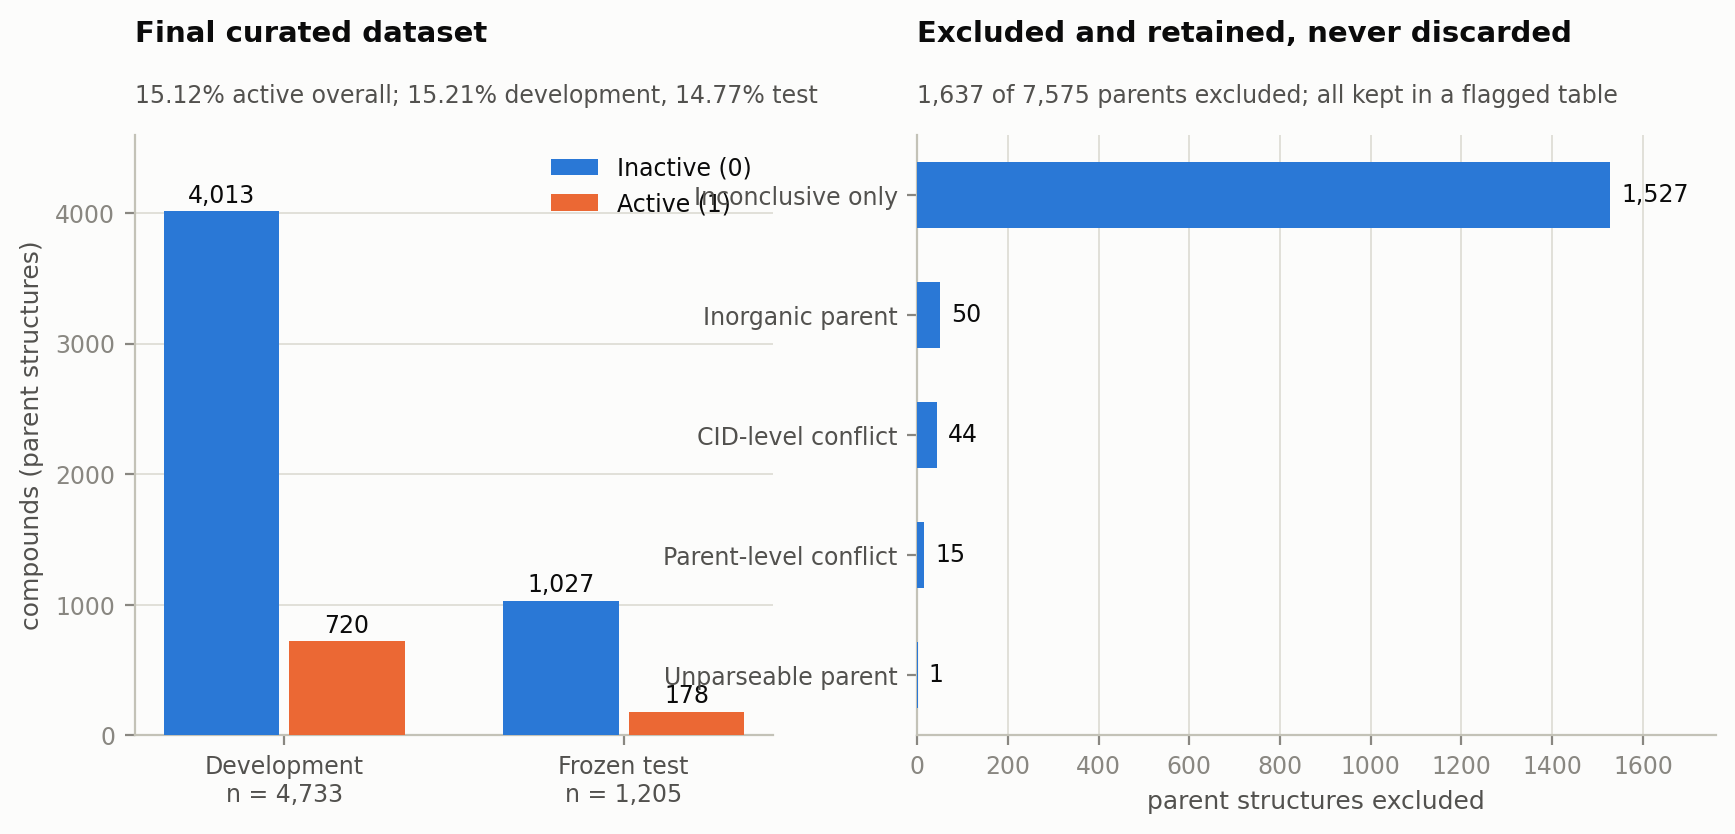
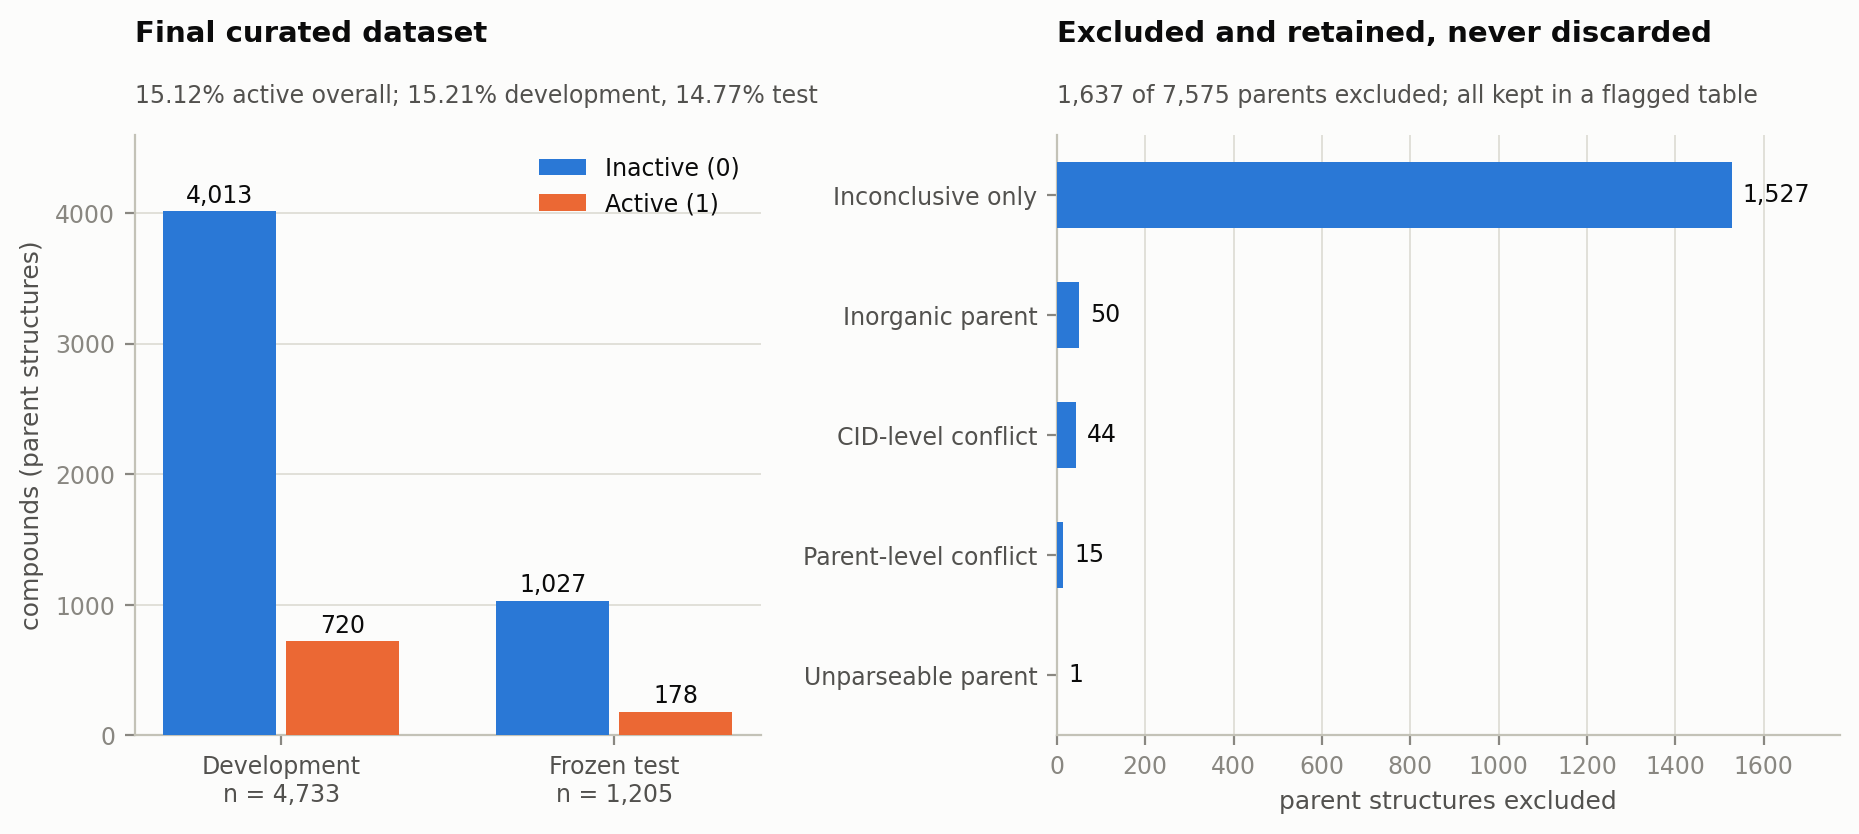
Lead with a figure, describe every figure, and stop hard-coding figure data
PLACEMENT. The first image did not appear until line 134, so anyone opening
the repository on GitHub read about 130 lines before seeing a result. The ROC
and precision-recall figure now sits directly under the headline metrics
table, where it does the job the table cannot: showing that the development
and frozen-test curves lie almost on top of each other. It is no longer
repeated in the Results section, which keeps the confusion matrices.

ALT TEXT. Every figure had a two- or three-word alt attribute naming it. Each
now describes what the figure shows, with its numbers, so the document still
reads on a screen reader, in a plain-text diff, and if an image fails to load.

Two of those descriptions were wrong when first written, which is the reason
for looking at all eight rather than trusting the filenames:

  * dataset_composition.png does not show the funnel from 10,486 records to
    5,938 compounds. It shows the final dataset by subset and label, beside
    the five exclusion categories.
  * alert_enrichment.png plots 12 alerts, not 13. ortho-quinone matches no
    development compound, so it has no odds ratio and is dropped.

HARD-CODED DATA IN A FIGURE. The five exclusion counts in
dataset_composition.png were literals in make_figures.py, as were the three
prevalence figures in its subtitle and the baseline prevalence in
model_comparison.png. They happened to be correct, but a figure that states
numbers it did not read cannot stay correct through a rebuild, and this
[…]

diff --git a/scripts/make_figures.py b/scripts/make_figures.py
@@ -81,8 +81,9 @@ alerts = pd.read_csv(f"{T}/structural_alert_enrichment_dev.csv")
 oof = np.load(f"{P}/oof_predictions_dev.npz", allow_pickle=True)
 
 # ============================================== 1. dataset composition
-fig, (a1, a2) = plt.subplots(1, 2, figsize=(10.2, 3.9),
-                             gridspec_kw={"width_ratios": [1, 1.25]})
+fig, (a1, a2) = plt.subplots(1, 2, figsize=(11.0, 3.9),
+                             gridspec_kw={"width_ratios": [1, 1.25],
+                                          "wspace": 0.42})
 sub = splits.groupby(["subset", "label"]).size().unstack(fill_value=0)
 sub = sub.loc[["development", "test"]]
 xs = np.arange(2)
@@ -100,12 +101,26 @@ a1.set_ylabel("compounds (parent structures)")
 a1.set_ylim(0, 4600)
 a1.legend(loc="upper right")
 tidy(a1)
+_pa = sub[1].sum() / sub.values.sum()
+_pd_ = sub.loc["development", 1] / sub.loc["development"].sum()
+_pt = sub.loc["test", 1] / sub.loc["test"].sum()
 title(a1, "Final curated dataset",
-      "15.12% active overall; 15.21% development, 14.77% test")
+      f"{_pa:.2%} active overall; {_pd_:.2%} development, {_pt:.2%} test")
 
-exc = [("Inconclusive only", 1527), ("Inorganic parent", 50),
-       ("CID-level conflict", 44), ("Parent-level conflict", 15),
-       ("Unparseable parent", 1)]
+# Read from the excluded table rather than hard-coding. These five counts were
+# literals here, which meant the figure would keep showing the old numbers if
+# the dataset were ever rebuilt - a silent disagreement between a figure and
+# the data it claims to describe.
+_LABELS = {"inconclusive_only": "Inconclusive only",
+           "inorganic_parent": "Inorganic parent",
+           "conflict_cid_level": "CID-level conflict",
+           "conflict_parent_level": "Parent-level conflict",
+           "parent_unparseable": "Unparseable parent"}
+_excl = pd.read_csv(f"{P}/tox21_mmp_excluded.csv")
+_counts = _excl.exclusion_reason.value_counts()
+exc = [(_LABELS.get(k, k), int(v)) for k, v in _counts.items()]
+n_excluded = int(len(_excl))
+n_parents = n_excluded + int(len(splits))
 ys = np.arange(len(exc))[::-1]
 b = a2.barh(ys, [e[1] for e in exc], 0.55, color=BLUE, zorder=3)
 for r, (_, v) in zip(b, exc):
@@ -114,10 +129,10 @@ for r, (_, v) in zip(b, exc):
 a2.set_yticks(ys)
 a2.set_yticklabels([e[0] for e in exc], color=INK2)
 a2.set_xlabel("parent structures excluded")
-a2.set_xlim(0, 1760)
+a2.set_xlim(0, max(v for _, v in exc) * 1.16)
 tidy(a2, "x")
 title(a2, "Excluded and retained, never discarded",
-      "1,637 of 7,575 parents excluded; all kept in a flagged table")
+      f"{n_excluded:,} of {n_parents:,} parents excluded; all kept in a flagged table")
 fig.savefig(f"{F}/dataset_composition.png")
 plt.close(fig)
 
@@ -149,13 +164,15 @@ ax.set_xticklabels(replab, color=INK2)
 ax.set_ylabel("cross-validated PR-AUC (mean of 5 folds)")
 ax.set_ylim(0, 0.92)
 ax.axhline(train.label.mean(), color=MUTED, lw=1.0, ls=(0, (4, 3)), zorder=2)
-ax.text(-0.45, train.label.mean() + 0.018, "random baseline (prevalence 0.151)",
-        color=MUTED, fontsize=7.8, ha="left")
+# The baseline is named in the subtitle rather than annotated in the plot.
+# The bars run to y=0, so there is no horizontal band inside the axes where
+# a label that long does not collide with one of them.
 ax.legend(loc="upper left", ncol=3)
 tidy(ax)
 title(ax, "Best configuration per representation and model family",
       "error bars: standard deviation across the 5 development CV folds; "
-      "108 configurations, 540 fits")
+      "108 configurations, 540 fits; dashed line is the random baseline at "
+      f"prevalence {train.label.mean():.3f}")
 fig.savefig(f"{F}/model_comparison.png")
 plt.close(fig)
 

diff --git a/README.md b/README.md
@@ -17,6 +17,15 @@ be scored, is counted and given a reason.
 
 Class prevalence is 14.8%, so a no-skill classifier scores PR-AUC ≈ 0.148.
 
+![ROC and precision-recall curves for the frozen XGBoost model. Development out-of-fold and
+frozen test curves lie almost on top of each other: ROC-AUC 0.922 against 0.926, average
+precision 0.746 against 0.709. The precision-recall panel marks the 0.148 prevalence baseline a
+no-skill classifier would reach.](results/figures/roc_pr_curves.png)
+
+Development and frozen test curves lie almost on top of each other, which is the point of the
+figure: the test set was never used for any modelling decision, and performance on it did not
+collapse.
+
 ---
 
 ## Why mitochondrial toxicity, and why food additives
@@ -131,7 +140,11 @@ excluded =  "Inconclusive"   retained and flagged, never coerced into a class
 
 ## Dataset construction
 
-![Dataset composition](results/figures/dataset_composition.png)
+![Left, the final curated dataset by subset and label: development holds 4,013 inactive and 720
+active compounds, the frozen test set 1,027 inactive and 178 active. Right, the 1,637 parent
+structures excluded from 7,575, by reason: 1,527 inconclusive-only, 50 inorganic, 44 CID-level
+conflicts, 15 parent-level conflicts and 1
+unparseable.](results/figures/dataset_composition.png)
 
 ```
 10,486 Tox21 sample records (SIDs)     149 have neither CID nor structure
@@ -245,7 +258,7 @@ Best configuration in each model family:
 | XGBoost | 48 | **0.748 ± 0.038** | 0.922 ± 0.016 | Morgan + descriptors |
 | random forest | 36 | 0.732 ± 0.046 | 0.918 ± 0.016 | Morgan + descriptors |
 | logistic regression | 24 | 0.625 ± 0.029 | 0.885 ± 0.021 | Morgan + descriptors |
-| no-skill baseline | — | 0.148 | 0.500 | — |
+| no-skill baseline | — | 0.152 | 0.500 | — |
 
 Best PR-AUC for every family and representation pair:
 
@@ -258,7 +271,10 @@ Best PR-AUC for every family and representation pair:
 Averaged over all 36 configurations fitted on each representation: Morgan alone 0.600,
 Morgan + descriptors 0.685, MACCS + descriptors 0.678.
 
-![Model comparison](results/figures/model_comparison.png)
+![Cross-validated PR-AUC for all 108 pre-registered configurations, grouped by model family
+and molecular representation. XGBoost on Morgan plus six descriptors is highest at 0.748;
+adding the descriptors to Morgan is worth more than the choice of model
+family.](results/figures/model_comparison.png)
 
 The six physicochemical descriptors matter more than any other choice in the grid. Adding them
 to Morgan moves the best XGBoost model from 0.648 to 0.748 and the best random forest from 0.646
@@ -282,9 +298,11 @@ colsample_bytree=0.8, tree_method=hist, random_state=42`. CV PR-AUC **0.7476 ± 
 
 ### Frozen test set, scored exactly once
 
-![ROC and PR curves](results/figures/roc_pr_curves.png)
+The ROC and precision-recall curves for this evaluation are at the top of this README.
 
-![Confusion matrices](results/figures/confusion_matrices.png)
+![Confusion matrices at the three pre-registered thresholds. At the primary threshold of 0.625
+the counts are 980 true negatives, 47 false positives, 66 false negatives and 112 true
+positives.](results/figures/confusion_matrices.png)
 
 | | development (CV) | frozen test | gap |
 |---|---|---|---|
@@ -313,7 +331,10 @@ reason.
 
 ### Performance depends on chemical proximity
 
-![Performance by proximity](results/figures/performance_by_proximity.png)
+![Frozen-test PR-AUC split by each test compound's Tanimoto similarity to its nearest
+development neighbour. Performance falls from 0.82 in the 0.5 to 0.6 band to 0.59 below 0.4,
+and the two most distant bands hold 480 of the 1,205 test
+compounds.](results/figures/performance_by_proximity.png)
 
 | nearest-neighbour Tanimoto | n | positives | PR-AUC |
 |---|---|---|---|
@@ -331,7 +352,9 @@ application, and it is why `predict.py` returns an applicability band alongside 
 
 ## Interpretation
 
-![SHAP importance](results/figures/shap_importance.png)
+![Mean absolute SHAP contribution per feature on the development set. MolLogP dominates at
+1.394, followed by MolWt at 0.882; TPSA and the hydrogen-bond counts contribute far
+less.](results/figures/shap_importance.png)
 
 Computed on the development set. Direction is the Spearman correlation between a feature's value
 and its own SHAP contribution. Mean signed SHAP is not used: on a 15%-prevalence dataset its
@@ -349,7 +372,11 @@ donors and acceptors are nearly identical between the classes.
 
 Interpretation only, development split only.
 
-![Alert enrichment](results/figures/alert_enrichment.png)
+![Odds ratios on a log scale for 12 of the 13 structural alerts, on the development split;
+ortho-quinone is absent because it matches no development compound. Nitrophenol (54.4),
+salicylanilide (45.1) and anthraquinone (42.1) are strongly enriched among actives, while
+Michael acceptors sit at 1.0 across 388 compounds and epoxides at 0.4, neither
+significant.](results/figures/alert_enrichment.png)
 
 | alert | n | odds ratio | Fisher p |
 |---|---|---|---|
@@ -386,7 +413,10 @@ to structures through PubChem, gated, and scored once with the frozen model. Res
 | &nbsp;&nbsp;already in the Tox21 training set | 72 | fitted values, **not** predictions |
 | &nbsp;&nbsp;genuinely out-of-sample | 57 | |
 
-![EU additive screen](results/figures/efsa_screen.png)
+![The EU additive screen. Left, the distribution of predicted probabilities across all 129
+scored additives, with the 0.625 and 0.390 thresholds marked. Right, the highest-ranked
+additives that are not in the Tox21 training set, led by 4-hexylresorcinol at 0.998, TBHQ at
+0.971, erythrosine at 0.970 and BHT at 0.965.](results/figures/efsa_screen.png)
 
 Eight of the 129 clear the primary threshold of p ≥ 0.625, four of them out-of-sample. The
 highest-ranked compounds the model had not seen are 4-hexylresorcinol (0.998), TBHQ (0.971),
